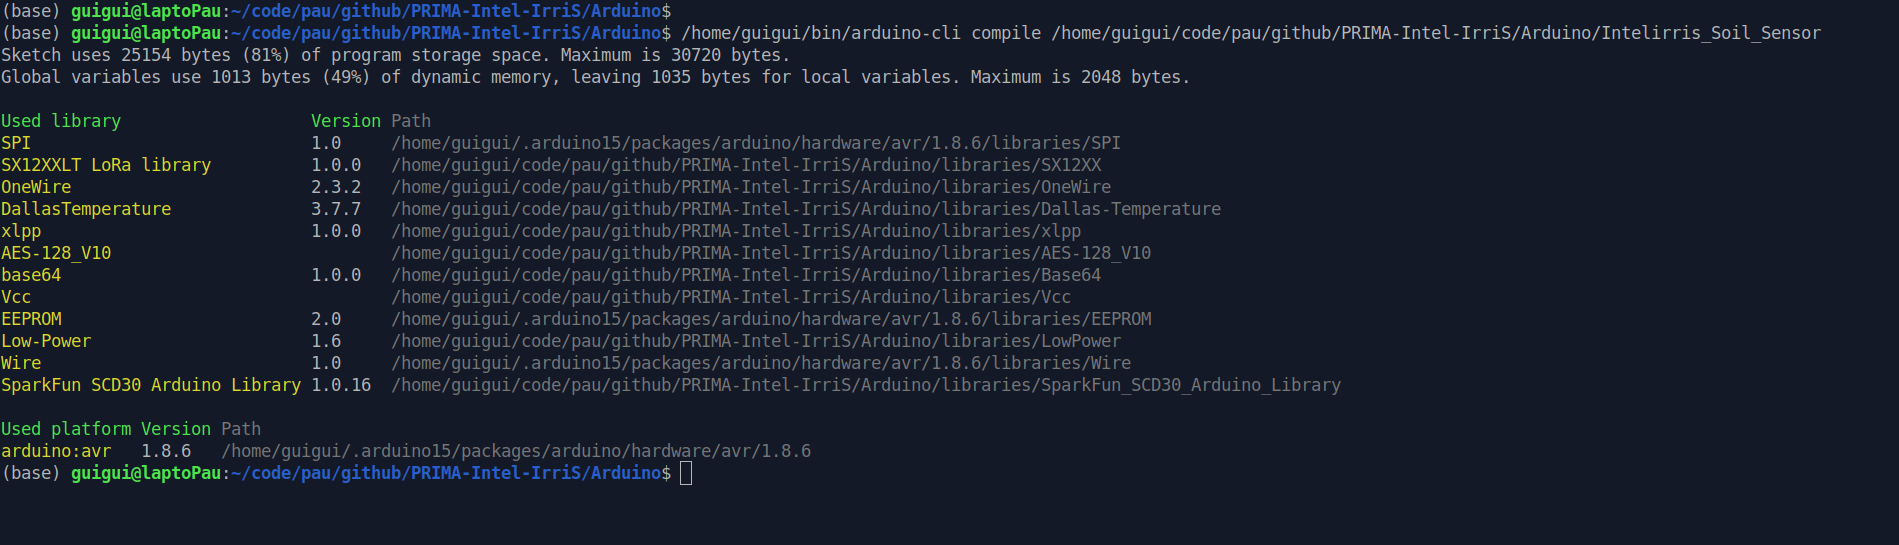
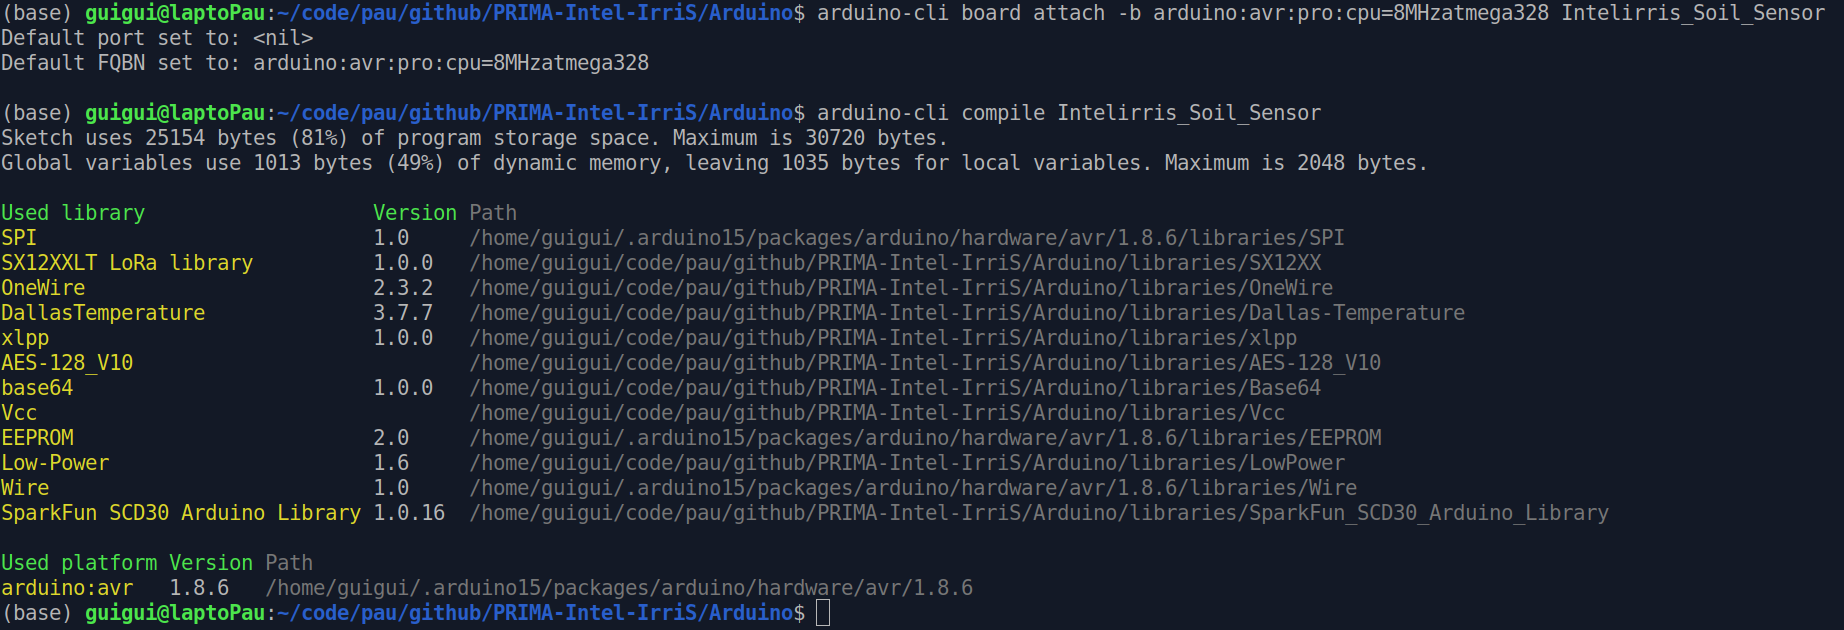
set up Arduino IDE

Changed region(s): [[0.0, 0.0, 0.9892, 0.9982]]

diff --git a/content/en/programs/intel-irris-capacity-program/units/2_Device/_index.md b/content/en/programs/intel-irris-capacity-program/units/2_Device/_index.md
@@ -366,24 +366,65 @@ We tested a Chinese one (on the right) that can be set either at 5v or
 
 ## 2. Get the code
 
-https://download-directory.github.io/?url=https%3A%2F%2Fgithub.com%2FCongducPham%2FPRIMA-Intel-IrriS%2Ftree%2Fmain%2FArduino
+The Device's code is available with the other resource of Intel-IrriS on the Github repository: 
+[![Intel-IrriS Github](img/intel-irris_github.png)](https://github.com/CongducPham/PRIMA-Intel-IrriS/tree/main)
 
-https://github.com/CongducPham/PRIMA-Intel-IrriS/tree/main
-Code Download ZIP
+**Download** the Arduino folder. You can download all the project (182&thinsp;MiB) using the Github ZIP direct download:
+
+![Download from Github](img/Github_download.png)
+
+Alternatively, you can download the Arduino folder alone (20&thinsp;MiB) using external tools, e.g. [download-directory](https://download-directory.github.io/?url=https%3A%2F%2Fgithub.com%2FCongducPham%2FPRIMA-Intel-IrriS%2Ftree%2Fmain%2FArduino).
+
+**Extract** the obtained ZIP file.
 
 ## 3. Get the IDE
-https://www.arduino.cc/en/software
 
-https://arduino.github.io/arduino-cli/0.35/installation/
-https://github.com/arduino/arduino-cli
-arduino-cli  Version: 0.35.3 Commit: 95cfd654 Date: 2024-02-19T13:24:24Z
+We recommend using the Arduino IDE available [here](https://www.arduino.cc/en/software): it includes the default libraries for the Arduino Pro Minis, a serial monitor, a code editor, it is multi-OS, it has a broad community of practice.
 
-https://github.com/tio/tio
+**Download** and **install** the latest version for your OS.
+
+### Command-line alternative
+If you prefer your own text editor, your own serial monitor, but still want to benefit from the Arduino's toolchain, you could use the [Arduino CLI](https://github.com/arduino/arduino-cli) command line tool. I tested and enjoyed [version 0.35.3](https://arduino.github.io/arduino-cli/0.35/installation/) on Xubuntu, with [TIO](https://github.com/tio/tio) as a Serial tool.
+
+[comment]: # "arduino-cli  Version: 0.35.3 Commit: 95cfd654 Date: 2024-02-19T13:24:24Z"
 
 ## 4. Set up the code and compile it
+
+### Set up the libraries
+The Arduino folder you downloaded and extracted contains a *libraries* sub-folder. In order to make the IDE find and use these libraries, you need to choose the Arduino folder as your sketchbook:\
+**Go** to `File > Preferences` and **Browse** to choose the Arduino folder as your sketchbook location.\
+![Arduino IDE Sketchbook Libraries](img/arduino-IDE_preferences.png)
+Once done, the IDE will probably ask you to update these libraries:
+![Arduino IDE Update Libraires](img/arduino-IDE_update-libs.png)\
+**Don't do that**, since the Device's code has been validated with this specific version of the compagnion libraries, and is not guaranteed to work with new updates and changes that could be implied.
+
+**Open** the `Arduino/Intelirris_Soil_Sensor.ino` sketch.
+
+-------------------- 
+In command-line, Arduino CLI checks the sub-folders for libraries, you just need to navigate to the Arduino folder.
+
+### Choose the board and CPU
+You need to **attach** your IDE's window to the Device's board type and CPU:
+* `Tools > Boards > Arduino AVR Boards > Arduino Pro or Pro Mini`
+* `Tools > Processor > ATmega328P (3.3V, 8 MHz)`
+
+![Arduino IDE Board Processor](img/arduino-IDE_board-cpu.png)
+
+-------------------- 
+In command-line, use the following command:\
+`.../Arduino$ arduino-cli board attach -b arduino:avr:pro:cpu=8MHzatmega328 Intelirris_Soil_Sensor`
+
+
+### Set up the code
+
+### Compile
+
 (base) guigui@laptoPau:~/code/pau/github/PRIMA-Intel-IrriS/Arduino$ /home/guigui/bin/arduino-cli compile /home/guigui/code/pau/github/PRIMA-Intel-IrriS/Arduino/Intelirris_Soil_Sensor
 
 ![Compile the Arduino code](img/arduino-cli_compile.png)
+
+		https://github.com/CongducPham/PRIMA-Intel-IrriS/blob/main/Arduino/README.md
+
 
 
 ## 5. Start preparing your Arduino
